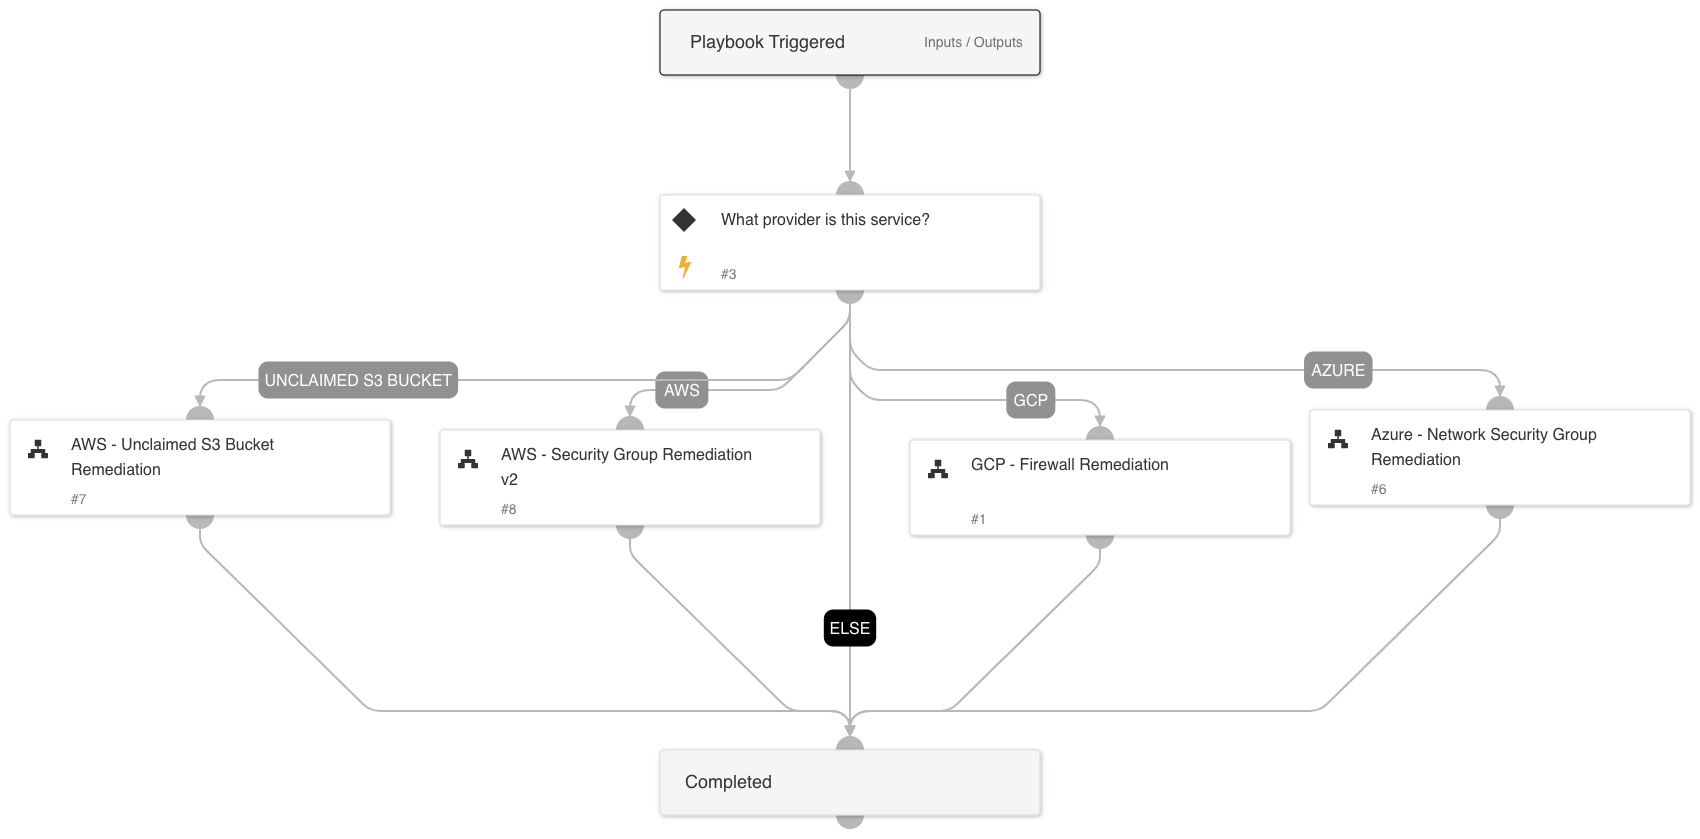
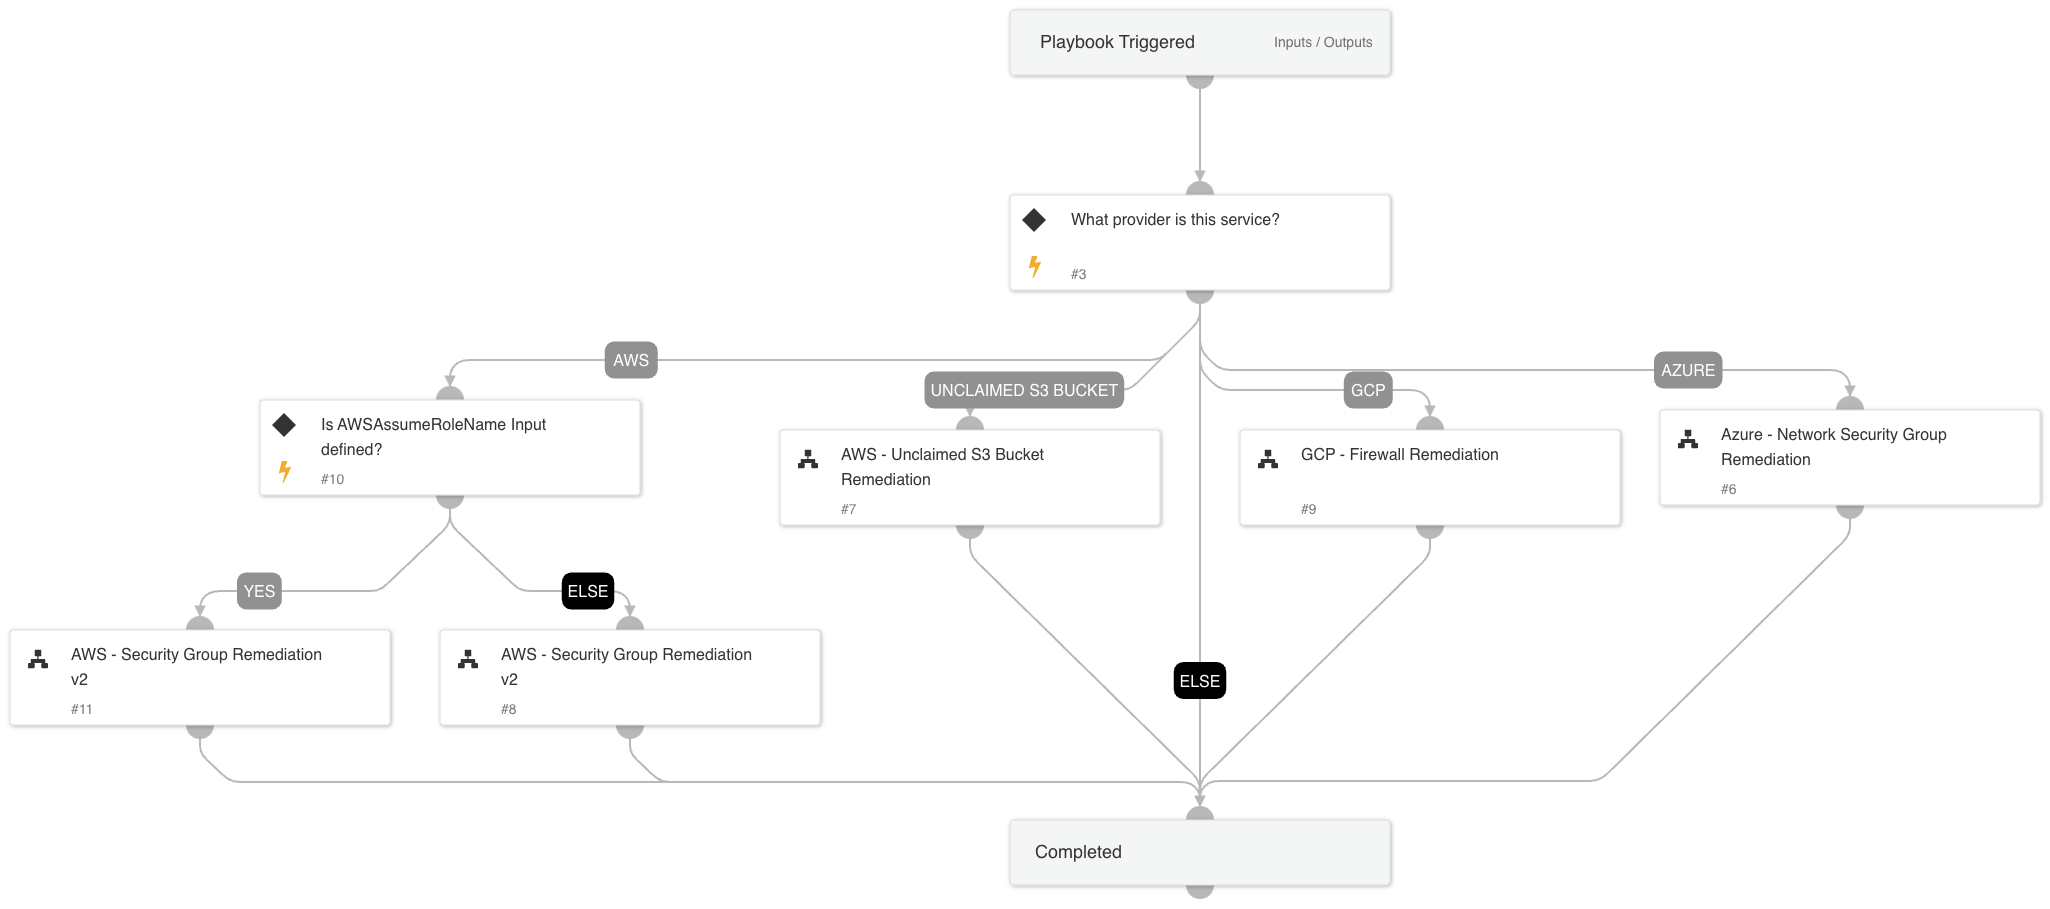
[ASM] Expander 5777 (#29647)
* [ASM] Expander 5777 (#29619)

* first

* RN

* Bump pack from version CortexAttackSurfaceManagement to 1.6.36.

---------

diff --git a/Packs/CortexAttackSurfaceManagement/Playbooks/Cortex_ASM_-_Remediation_README.md b/Packs/CortexAttackSurfaceManagement/Playbooks/Cortex_ASM_-_Remediation_README.md
@@ -6,9 +6,9 @@ This playbook uses the following sub-playbooks, integrations, and scripts.
 
 ### Sub-playbooks
 
-* AWS - Unclaimed S3 Bucket Remediation
 * GCP - Firewall Remediation
 * AWS - Security Group Remediation v2
+* AWS - Unclaimed S3 Bucket Remediation
 * Azure - Network Security Group Remediation
 
 ### Integrations
@@ -26,7 +26,10 @@ This playbook does not use any commands.
 ## Playbook Inputs
 
 ---
-There are no inputs for this playbook.
+
+| **Name** | **Description** | **Default Value** | **Required** |
+| --- | --- | --- | --- |
+| AWSAssumeRoleName | If assuming roles for AWS, this is the name of the role to assume \(should be the same for all organizations\) |  | Optional |
 
 ## Playbook Outputs
 

diff --git a/Packs/CortexAttackSurfaceManagement/ReleaseNotes/1_6_36.md b/Packs/CortexAttackSurfaceManagement/ReleaseNotes/1_6_36.md
@@ -1,0 +1,6 @@
+
+#### Playbooks
+
+##### Cortex ASM - Remediation
+
+- Added the **AWSAssumeRoleName** optional input in case a roleArn needs to be passed in.
